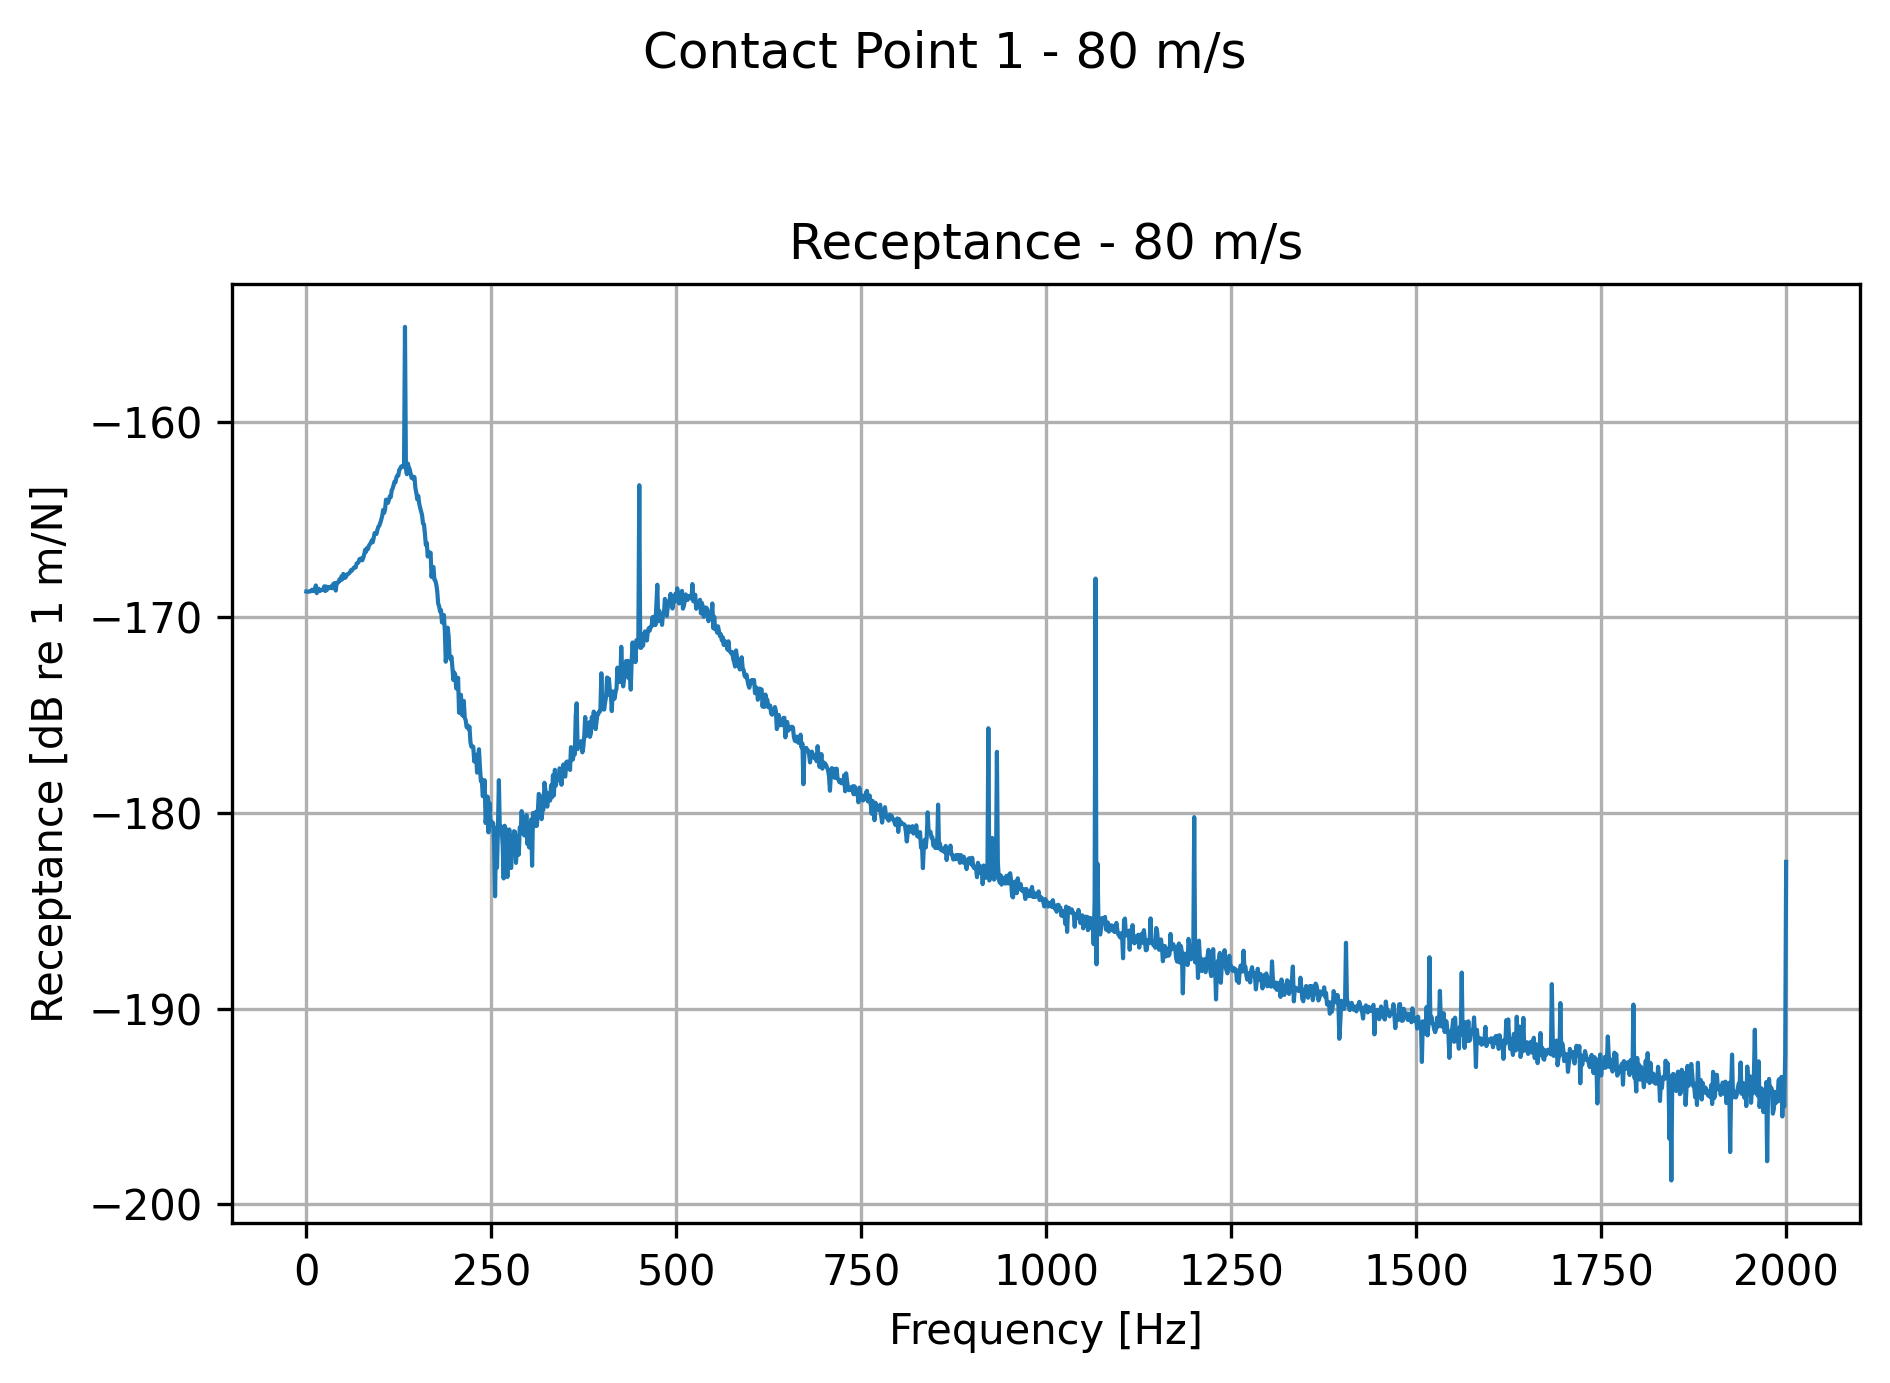
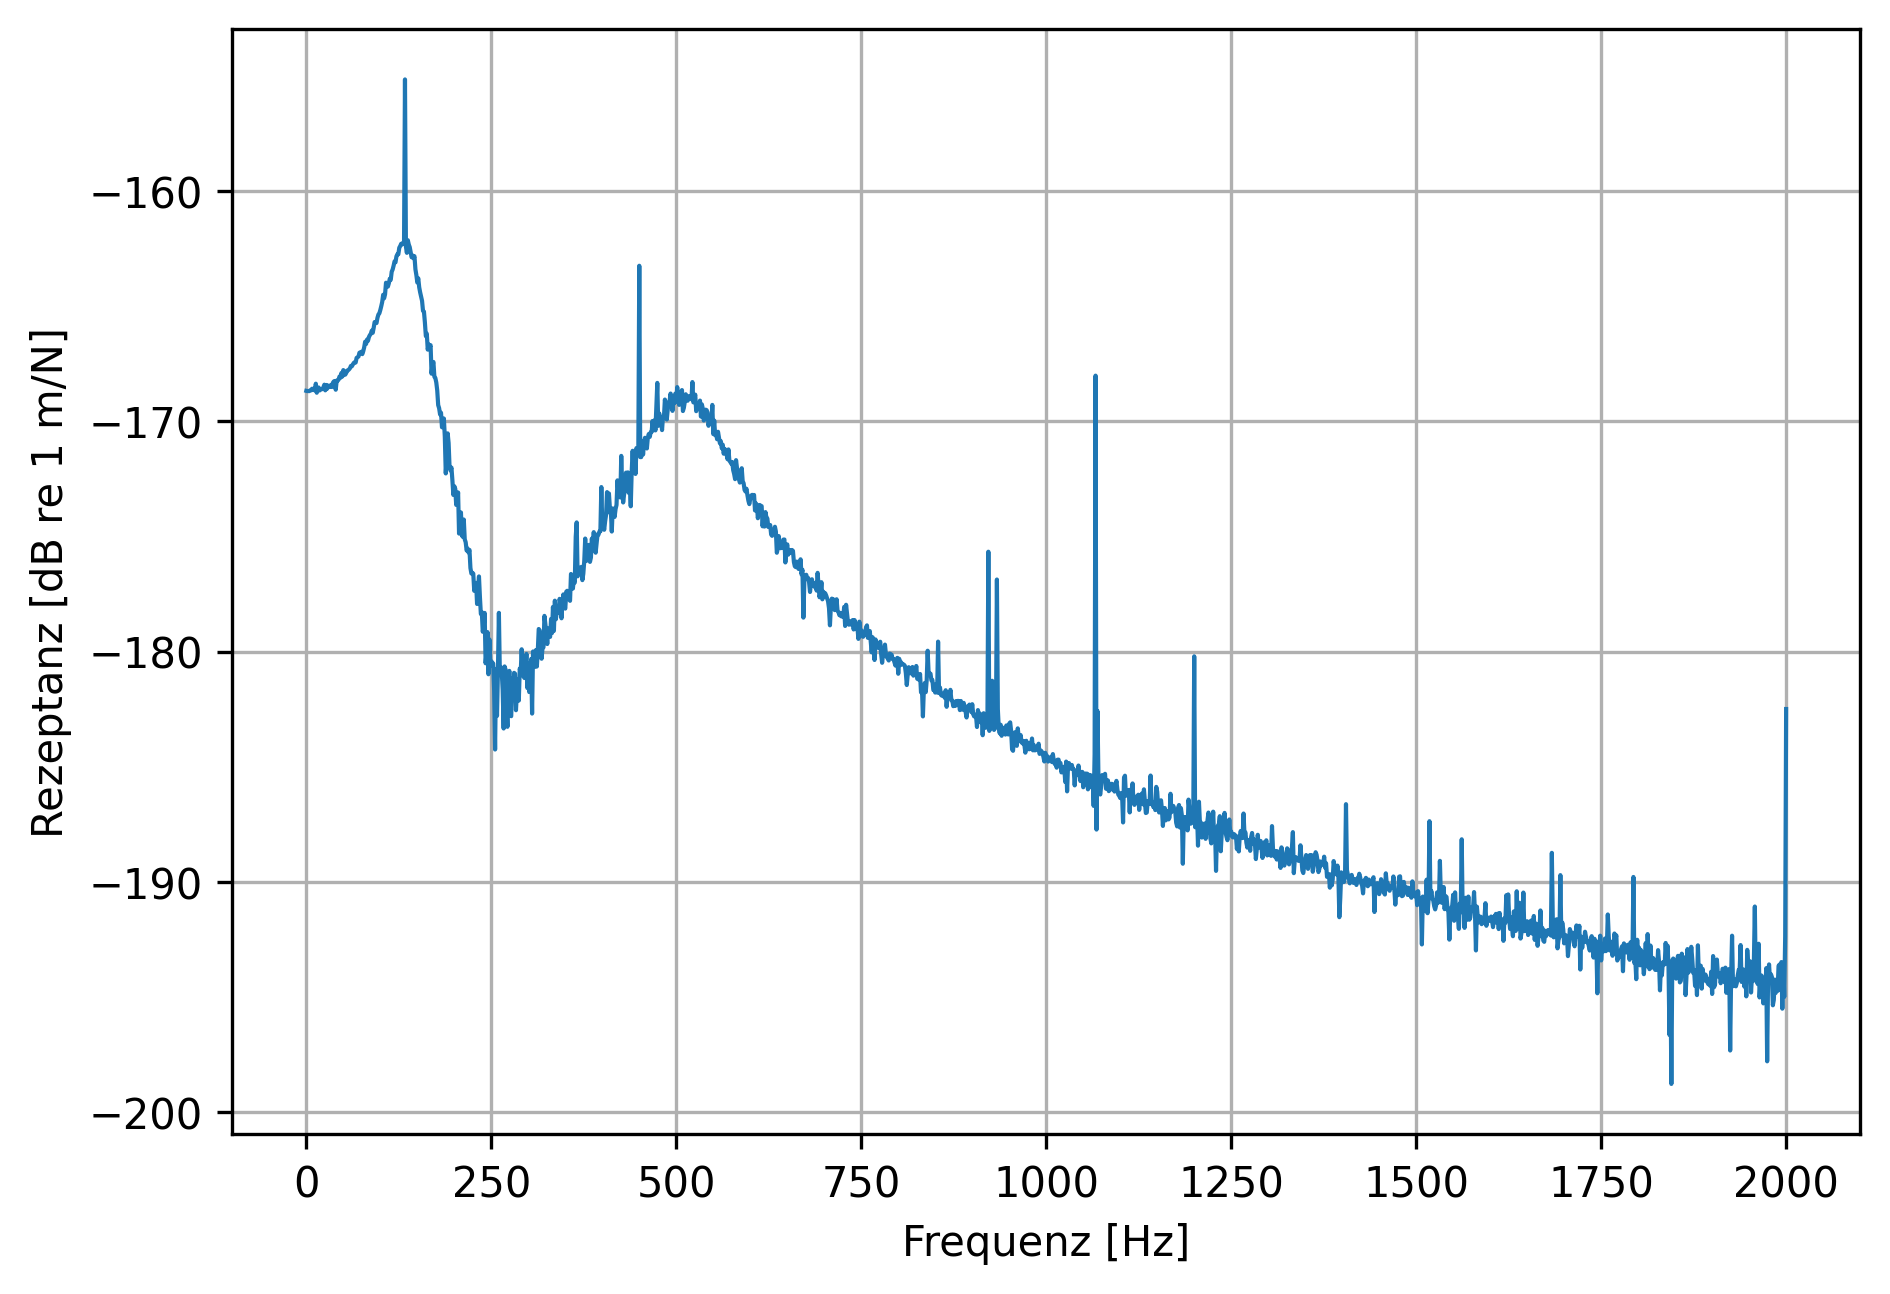
german plots

diff --git a/rolland/testing.py b/rolland/testing.py
@@ -1,52 +1,53 @@
-# ## harmonic frequencies ###
+## harmonic frequencies ###
 
-# import math
-# d_s = 0.6
-# # E   = 210e11  # Nordborg elasticity modulus
-# E   = 210e9
-# Iyr = 3038.30e-8
-# # Izr = 512.30e-8
-# # Itr = 209.20e-8
-# # Ipr = 3550.60e-8
-# B   = E * Iyr
-# m   = 60.2  # rail mass per unit length
-# v = [25, 60, 80]  # velocities to simulate [m/s]
+import math
+d_s = 0.6
+# E   = 210e11  # Nordborg elasticity modulus
+E   = 210e9
+Iyr = 3038.30e-8
+# Izr = 512.30e-8
+# Itr = 209.20e-8
+# Ipr = 3550.60e-8
+B   = E * Iyr
+print(f"Bending stiffness B: {B:.2f} Nm^2")
+m   = 60.2  # rail mass per unit length
+v = [25, 60, 80]  # velocities to simulate [m/s]
 
-# f_PPF = math.pi/(2*d_s**2)*math.sqrt(B/m)
-# print(f"Predicted PPF frequency: {f_PPF:.2f} Hz")
-# f_SPF = [vi/d_s for vi in v]
-# for vi, fsi in zip(v, f_SPF):
-#     print(f"Velocity: {vi} m/s -> Predicted SPF frequency: {fsi:.2f} Hz")
+f_PPF = math.pi/(2*d_s**2)*math.sqrt(B/m)
+print(f"Predicted PPF frequency: {f_PPF:.2f} Hz")
+f_SPF = [vi/d_s for vi in v]
+for vi, fsi in zip(v, f_SPF):
+    print(f"Velocity: {vi} m/s -> Predicted SPF frequency: {fsi:.2f} Hz")
 
 ### read in data from csv ###
 
-import csv
-import pandas as pd
-import matplotlib.pyplot as plt
-import numpy as np
+# import csv
+# import pandas as pd
+# import matplotlib.pyplot as plt
+# import numpy as np
 
 
-with open('C:/Users/Alex/repositories/rolland/nordborg_data_sharp.csv') as csv_file:
-    csv_reader = csv.reader(csv_file, delimiter=';')
-    frequencies = []
-    receptances = []
-    for row in csv_reader:
-        frequencies.append(float(str.replace(row[0], ',', '.')))
-        receptances.append(float(str.replace(row[1], ',', '.')))
+# with open('C:/Users/Alex/repositories/rolland/nordborg_data_sharp.csv') as csv_file:
+#     csv_reader = csv.reader(csv_file, delimiter=';')
+#     frequencies = []
+#     receptances = []
+#     for row in csv_reader:
+#         frequencies.append(float(str.replace(row[0], ',', '.')))
+#         receptances.append(float(str.replace(row[1], ',', '.')))
 
-# Interpolate to equally spaced frequencies
-freq_interp = np.linspace(0, 2000, 2000)
-receptance_interp = np.interp(freq_interp, frequencies, receptances)
+# # Interpolate to equally spaced frequencies
+# freq_interp = np.linspace(0, 2000, 2000)
+# receptance_interp = np.interp(freq_interp, frequencies, receptances)
 
-# Plot the interpolated data
-plt.figure(figsize=(12, 6))
-plt.plot(freq_interp, receptance_interp, linewidth=1.5)
-plt.xlabel('Frequency [Hz]', fontsize=12)
-plt.ylabel('Receptance [m/N]', fontsize=12)
-plt.grid(True, alpha=0.3)
-plt.title('Interpolated Receptance vs Frequency', fontsize=14)
-plt.tight_layout()
-plt.show()
+# # Plot the interpolated data
+# plt.figure(figsize=(12, 6))
+# plt.plot(freq_interp, receptance_interp, linewidth=1.5)
+# plt.xlabel('Frequency [Hz]', fontsize=12)
+# plt.ylabel('Receptance [m/N]', fontsize=12)
+# plt.grid(True, alpha=0.3)
+# plt.title('Interpolated Receptance vs Frequency', fontsize=14)
+# plt.tight_layout()
+# plt.show()
 
 
 

diff --git a/Moving_Force.py b/Moving_Force.py
@@ -158,12 +158,11 @@ for vel in velocities:
 
         # plt.subplot(2, 1, 2)
         plt.plot(freqs[mask], 20*np.log10(np.abs(receptance[mask])), linewidth=1)
-        plt.xlabel('Frequency [Hz]')
-        plt.ylabel('Receptance [dB re 1 m/N]')
+        plt.xlabel('Frequenz [Hz]')
+        plt.ylabel('Rezeptanz [dB re 1 m/N]')
         plt.grid(True)
-        plt.title(f'Receptance - {vel} m/s')
 
-        plt.suptitle(f'Contact Point {i+1} - {vel} m/s')
+
         plt.tight_layout(rect=[0, 0.03, 1, 0.95])
         plt.savefig(str(output_dir / f'mobility_receptance_v{vel:03d}_wheel{i+1}.png'), dpi=300, bbox_inches='tight')
         plt.close()
@@ -182,8 +181,8 @@ for vel in velocities:
             plt.figure(figsize=(10, 5))
             for v, freq, receptance in all_receptance:
                 plt.plot(freq, receptance, label=f'{v} m/s', linewidth=1)
-                plt.xlabel('Frequency [Hz]')
-                plt.ylabel('Receptance [dB re 1 m/N]')
+                plt.xlabel('Frequenz [Hz]')
+                plt.ylabel('Rezeptanz [dB re 1 m/N]')
                 plt.grid(True)
                 plt.legend()
                 plt.tight_layout()
@@ -205,12 +204,12 @@ for vel in velocities:
             receptance_interp = np.interp(freq_interp, frequencies, receptances)
 
             plt.figure(figsize=(10, 5))
-            plt.plot(freq_interp, receptance_interp, label='Nordborg Data', linewidth=1)
+            plt.plot(freq_interp, receptance_interp, label='Vergleichsdaten (Nordborg)', linewidth=1)
             for v, freq, receptance in all_receptance:
                 if v == 60:
-                    plt.plot(freq, receptance, label=f'{v} m/s', linewidth=1)
-            plt.xlabel('Frequency [Hz]')
-            plt.ylabel('Receptance [dB re 1 m/N]')
+                    plt.plot(freq, receptance, label=f'Simulation', linewidth=1)
+            plt.xlabel('Frequenz [Hz]')
+            plt.ylabel('Rezeptanz [dB re 1 m/N]')
             plt.grid(True)
             plt.legend()
             plt.tight_layout()
